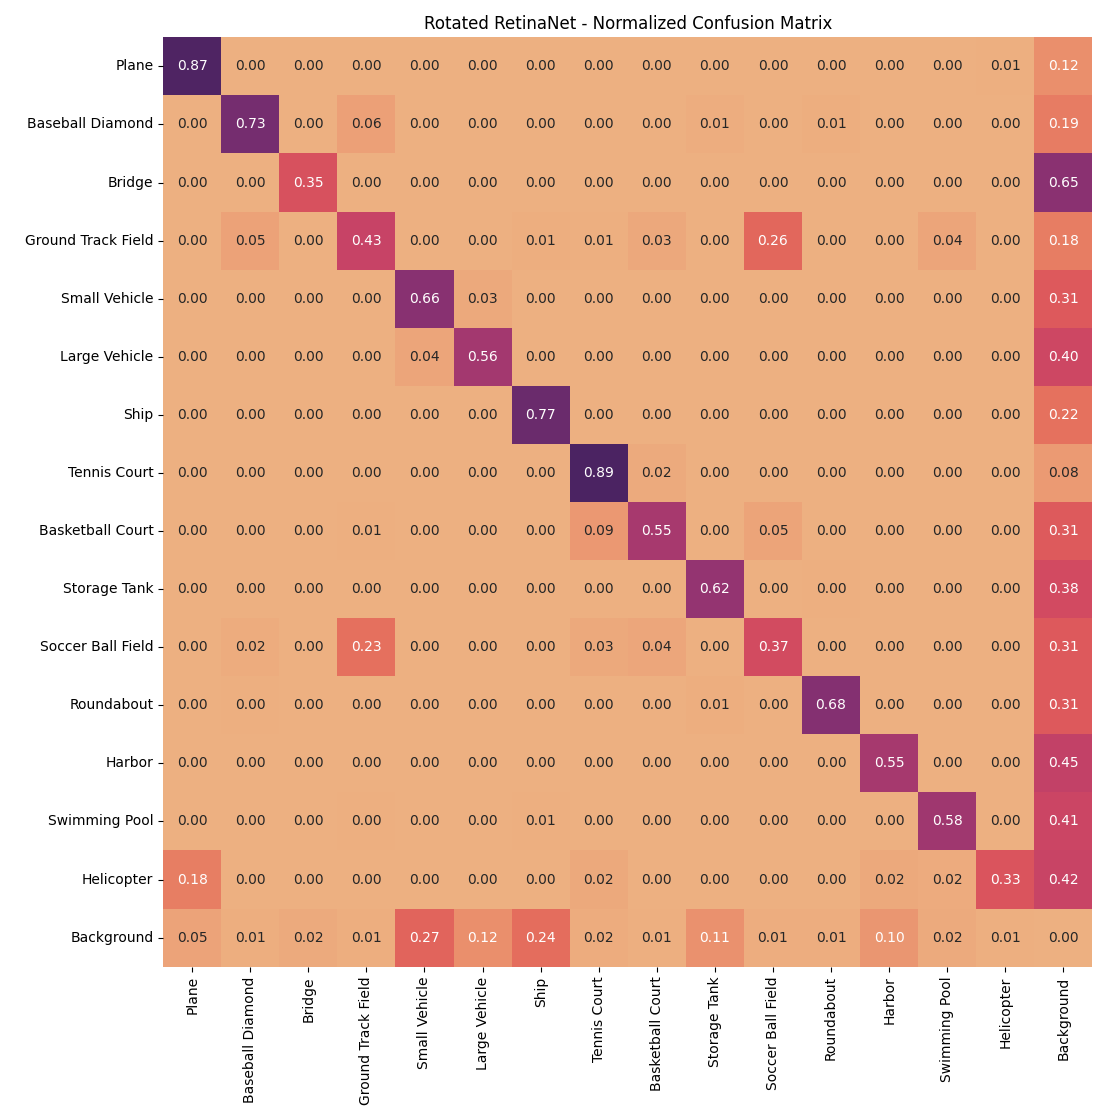
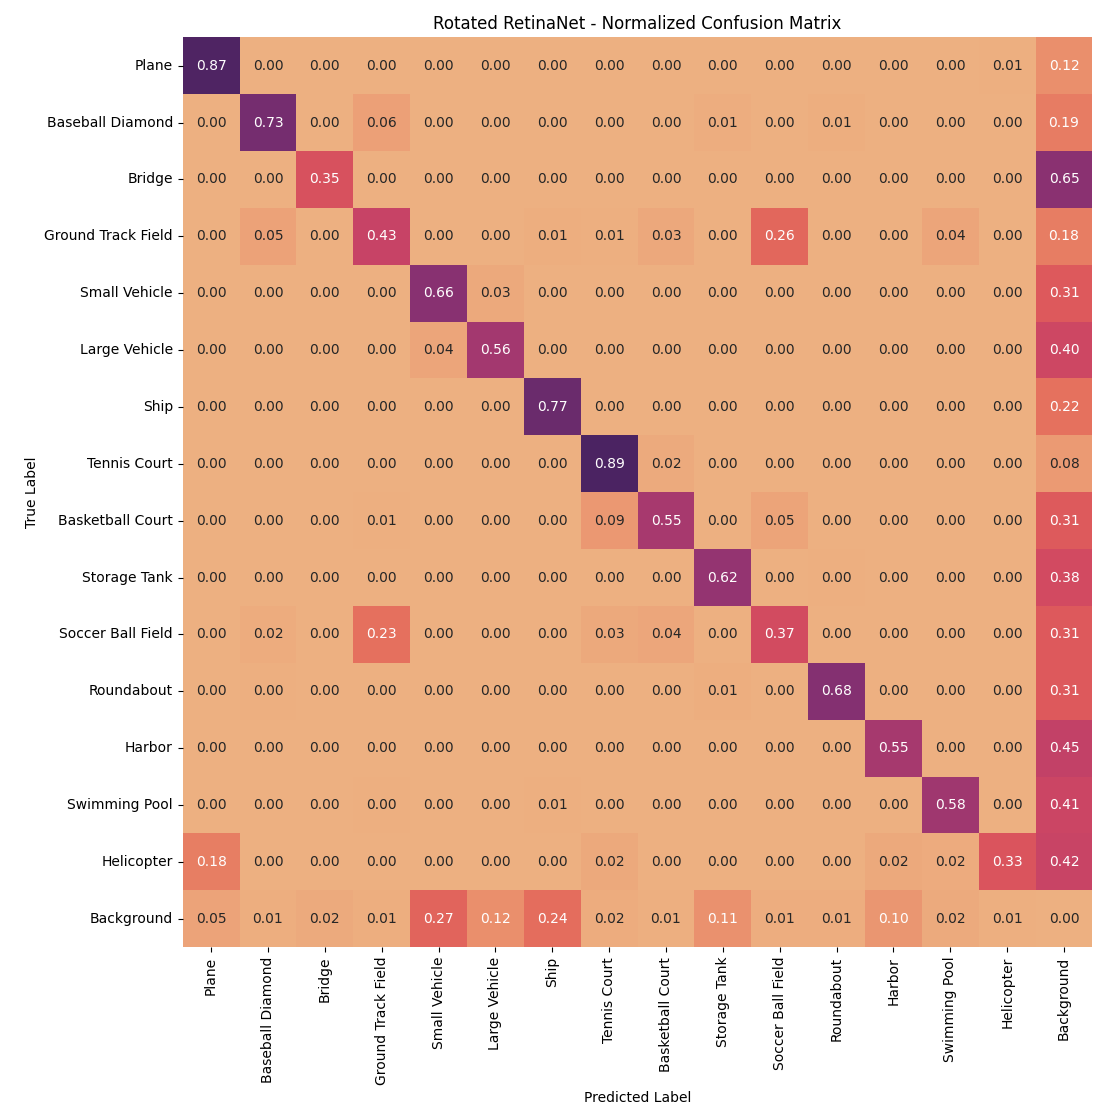
Added True/Predicted in the confmats

diff --git a/lab6/confusion_matrix.py b/lab6/confusion_matrix.py
@@ -181,6 +181,9 @@ def alt_plot_confusion_matrix(
     )
     if title is not None:
         ax.set_title(title)
+    
+    ax.set_xlabel('Predicted Label')
+    ax.set_ylabel('True Label')
         
     fig.tight_layout()
     if save_dir is not None:

diff --git a/lab6/README.md b/lab6/README.md
@@ -148,7 +148,7 @@ python tools/test.py \
 
 which will create predictions for the original images (by assembling predictions on the image patches and then performing non-max suppression) inside `work_dirs/simple_config_preds/` in the format used for the [DOTA-v1.0 Evaluation Server](https://captain-whu.github.io/DOTA/evaluation.html).
 
-You can also use the custom made `predictor.py` to do inference on the original images and show/save their annotated versions. The inference is done by cropping `1024 x 1024` patches with step `824` (i.e. overlap `200`), as well `crop=1024//2 x 1024//2, step=824//2`, and `crop=1024*2 x 1024*2, step=824*2`, running inference on those patches (patches are resized with bilinear interpolation before they are fed to the model) and then merging the results using non-max suppression with `iou_threshold = 0.1`.
+You can also use the custom made [predictor.py](./predictor.py) to do inference on the original images and show/save their annotated versions. The inference is performed by cropping  the original image into `1024 x 1024` patches with step `824` (i.e. overlap `200`), as well `crop=1024//2 x 1024//2, step=824//2`, and `crop=1024*2 x 1024*2, step=824*2`(patches are resized with bilinear interpolation before they are fed to the model), and then merging the results using non-max suppression with `iou_threshold = 0.1`.
 
 ```shell
 python predictor.py \
@@ -158,7 +158,8 @@ python predictor.py \
     --outdir predictions/myconfig
 ```
 
-To create a confusion matrix on the validation set you can run the provided modified `confusion_matrix.py` (Fixed non-existent argument in `nms_rotated` and non-working `--color-theme` option. Added plotting functionality with `seaborn`). For example
+To create a confusion matrix for the validation or training set, you can run the provided modified [confusion_matrix.py](confusion_matrix.py) (fixed in the [original version](https://github.com/open-mmlab/mmrotate/blob/main/tools/analysis_tools/confusion_matrix.py) an invalid argument in `nms_rotated`, a nonfunctional `--color-theme` option, added plotting functionality with `seaborn`, and normalization is now done by row instead by column).
+For example
 
 ```shell
 python tools/test.py \
